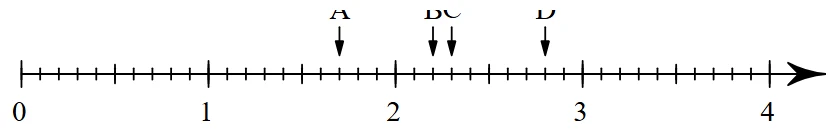
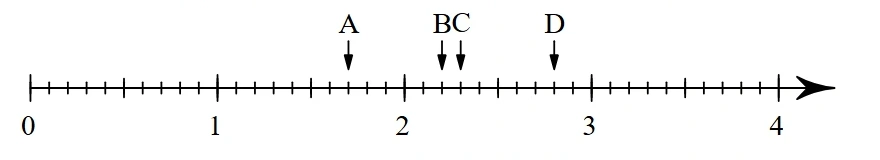
fix(priori): preserve first assessment and repair figure

diff --git a/src/features/priori/prioriDrill.js b/src/features/priori/prioriDrill.js
@@ -368,7 +368,7 @@ export function reconcilePrioriPaperRecordWithPaper(rec, paper = null) {
       isCorrect &&
       (Number(nextStreaks[q.id]) || 0) === 1 &&
       isPrioriAnswerCorrect(q, firstAnswers[q.id]) &&
-      (Number(rec.questionAttemptCounts?.[q.id]) || 1) <= 1
+      Number(rec.questionAttemptCounts?.[q.id]) === 1
     ) {
       nextStreaks[q.id] = 2;
       streaksChanged = true;
@@ -467,33 +467,13 @@ export function mergePrioriPaperRecordWithPaper(localRec, cloudRec, paper = null
     }
   }
 
-  const olderFirst =
-    older.firstAnswers && typeof older.firstAnswers === 'object' ? older.firstAnswers : null;
-  const newerFirst =
-    newer.firstAnswers && typeof newer.firstAnswers === 'object' ? newer.firstAnswers : null;
-  let mergedFirstAnswers = olderFirst || newerFirst || null;
-  if (olderFirst && newerFirst) {
-    mergedFirstAnswers = { ...olderFirst };
-    for (const [qid, newerFirstVal] of Object.entries(newerFirst)) {
-      const q = qById[qid];
-      const olderFirstHas = q
-        ? hasPrioriAnswer(q, olderFirst[qid])
-        : olderFirst[qid] !== undefined && olderFirst[qid] !== null && olderFirst[qid] !== '';
-      const newerFirstHas = q
-        ? hasPrioriAnswer(q, newerFirstVal)
-        : newerFirstVal !== undefined && newerFirstVal !== null && newerFirstVal !== '';
-      if (!olderFirstHas && newerFirstHas) {
-        mergedFirstAnswers[qid] = newerFirstVal;
-      }
-    }
-  }
-
-  const firstCandidate =
-    olderFirst && Object.keys(olderFirst).length > 0
-      ? older
-      : newerFirst && Object.keys(newerFirst).length > 0
-      ? newer
-      : older;
+  const candidates = [older, newer].filter(
+    (record) => record.firstAnswers && typeof record.firstAnswers === 'object' && Object.keys(record.firstAnswers).length > 0
+  );
+  const firstCandidate = candidates.length === 2 && candidates.every((record) => record.firstSubmittedAt)
+    ? candidates.sort((a, b) => new Date(a.firstSubmittedAt) - new Date(b.firstSubmittedAt))[0]
+    : candidates[0] || older;
+  const mergedFirstAnswers = firstCandidate.firstAnswers || null;
 
   const mergedScratchpad = { ...(older.scratchpad || {}) };
   for (const [qid, strokes] of Object.entries(newer.scratchpad || {})) {

diff --git a/src/features/priori/PrioriPracticeHub.jsx b/src/features/priori/PrioriPracticeHub.jsx
@@ -637,7 +637,7 @@ export function PrioriPracticeHub({ onBack, initialPaperId = null }) {
         finishReason: 'cap_reached',
         headline: ok
           ? `🏁 答對了！目前已達本輪 ${drillMeta.maxAttempts} 題練習上限，即將結算本次進度。`
-          : `🏁 答錯囉！已達本輪 ${drillMeta.maxAttempts} 題練習上限（不無限重考），請先看過提示後結算，若要繼續精熟可再開新一輪！`,
+          : `${fastHint}🏁 答錯囉！已達本輪 ${drillMeta.maxAttempts} 題練習上限（不無限重考），請先看過提示後結算，若要繼續精熟可再開新一輪！`,
         detail:
           currentQuestion.explanationSteps?.[
             ok ? Math.max(0, (currentQuestion.explanationSteps?.length || 1) - 1) : 0

diff --git a/docs/USER_MANUAL.md b/docs/USER_MANUAL.md
@@ -111,6 +111,7 @@
 - **聽力題與題號跳轉**：英語聽力題提供官方音檔播放鍵；上方題號膠囊可隨時點選跳題、並先查看已作答／未作答狀態再按交卷核對。
 - **錯題沉底特訓規則（交卷後與首頁皆可啟動）**：
   - 每一題都有「連對次數」紀錄；**答錯會重算連對次數**，**未精熟的題目可在特訓輪次中再次出現**，**累計連對 2 次即標記為「🌟 已精熟」**。
+- 首次正式測驗達 80 分時，初測答對的題目直接標記為已精熟，答錯的題目仍可透過特訓練習。
   - 特訓時可選單輪上限 **10 題或 20 題**：這裡的 **10 / 20 是指單輪作答次數上限（包含重複出現的同一題）**，若提前把本輪錯題全部練到連對 2 次精熟也會自動結算；沒練完的題目可先按結算保留進度，之後再開下一輪特訓。
 - **派卷 QR 掃碼直入與列印**：如果老師在教室展示「派卷 QR Code」，學生平板掃描後會進入「**派卷快速進入**」確認畫面，**確認年班座號無誤後**點擊進入測驗即可直達指定試卷；學生也可在首頁試卷列或結果頁點擊列印按鈕印出個人練習學習單（或錯題學習單）。
 

diff --git a/HANDOVER.md b/HANDOVER.md
@@ -116,6 +116,12 @@
 
 ## 五、 專案現況進度與待辦清單 (Current Status & Next)
 
+**2026-11-16 PRIORI 修正交接**
+- 跨裝置合併保留最早一次初測快照，並保留最新作答的合併。無逐題作答次數的舊紀錄不再自動升級為精熟。已被舊邏輯改寫的資料無法在缺少歷史時可靠還原。
+- 114 年四年級數學第 2 題數線圖重新裁切，補足 A、B、C、D 標記；圖片建置腳本一併調整。113／114 圖片完整性仍需持續逐題人工對照原卷，不能僅憑契約測試認定全部通過。
+- 補上錯題特訓最後一題答錯時的 2 秒提醒，並更新使用手冊及跨裝置測試。
+
+
 | 項目 | 狀態 | 備註 / 下一步 |
 | :--- | :---: | :--- |
 | **檢定館四軌響應式、易錯題、打地鼠/貪食蛇優化 (`d07d91e`)** | ✅ **已上線** | 正式站已具備四軌整合設定頁與自適應錯題流程 |
